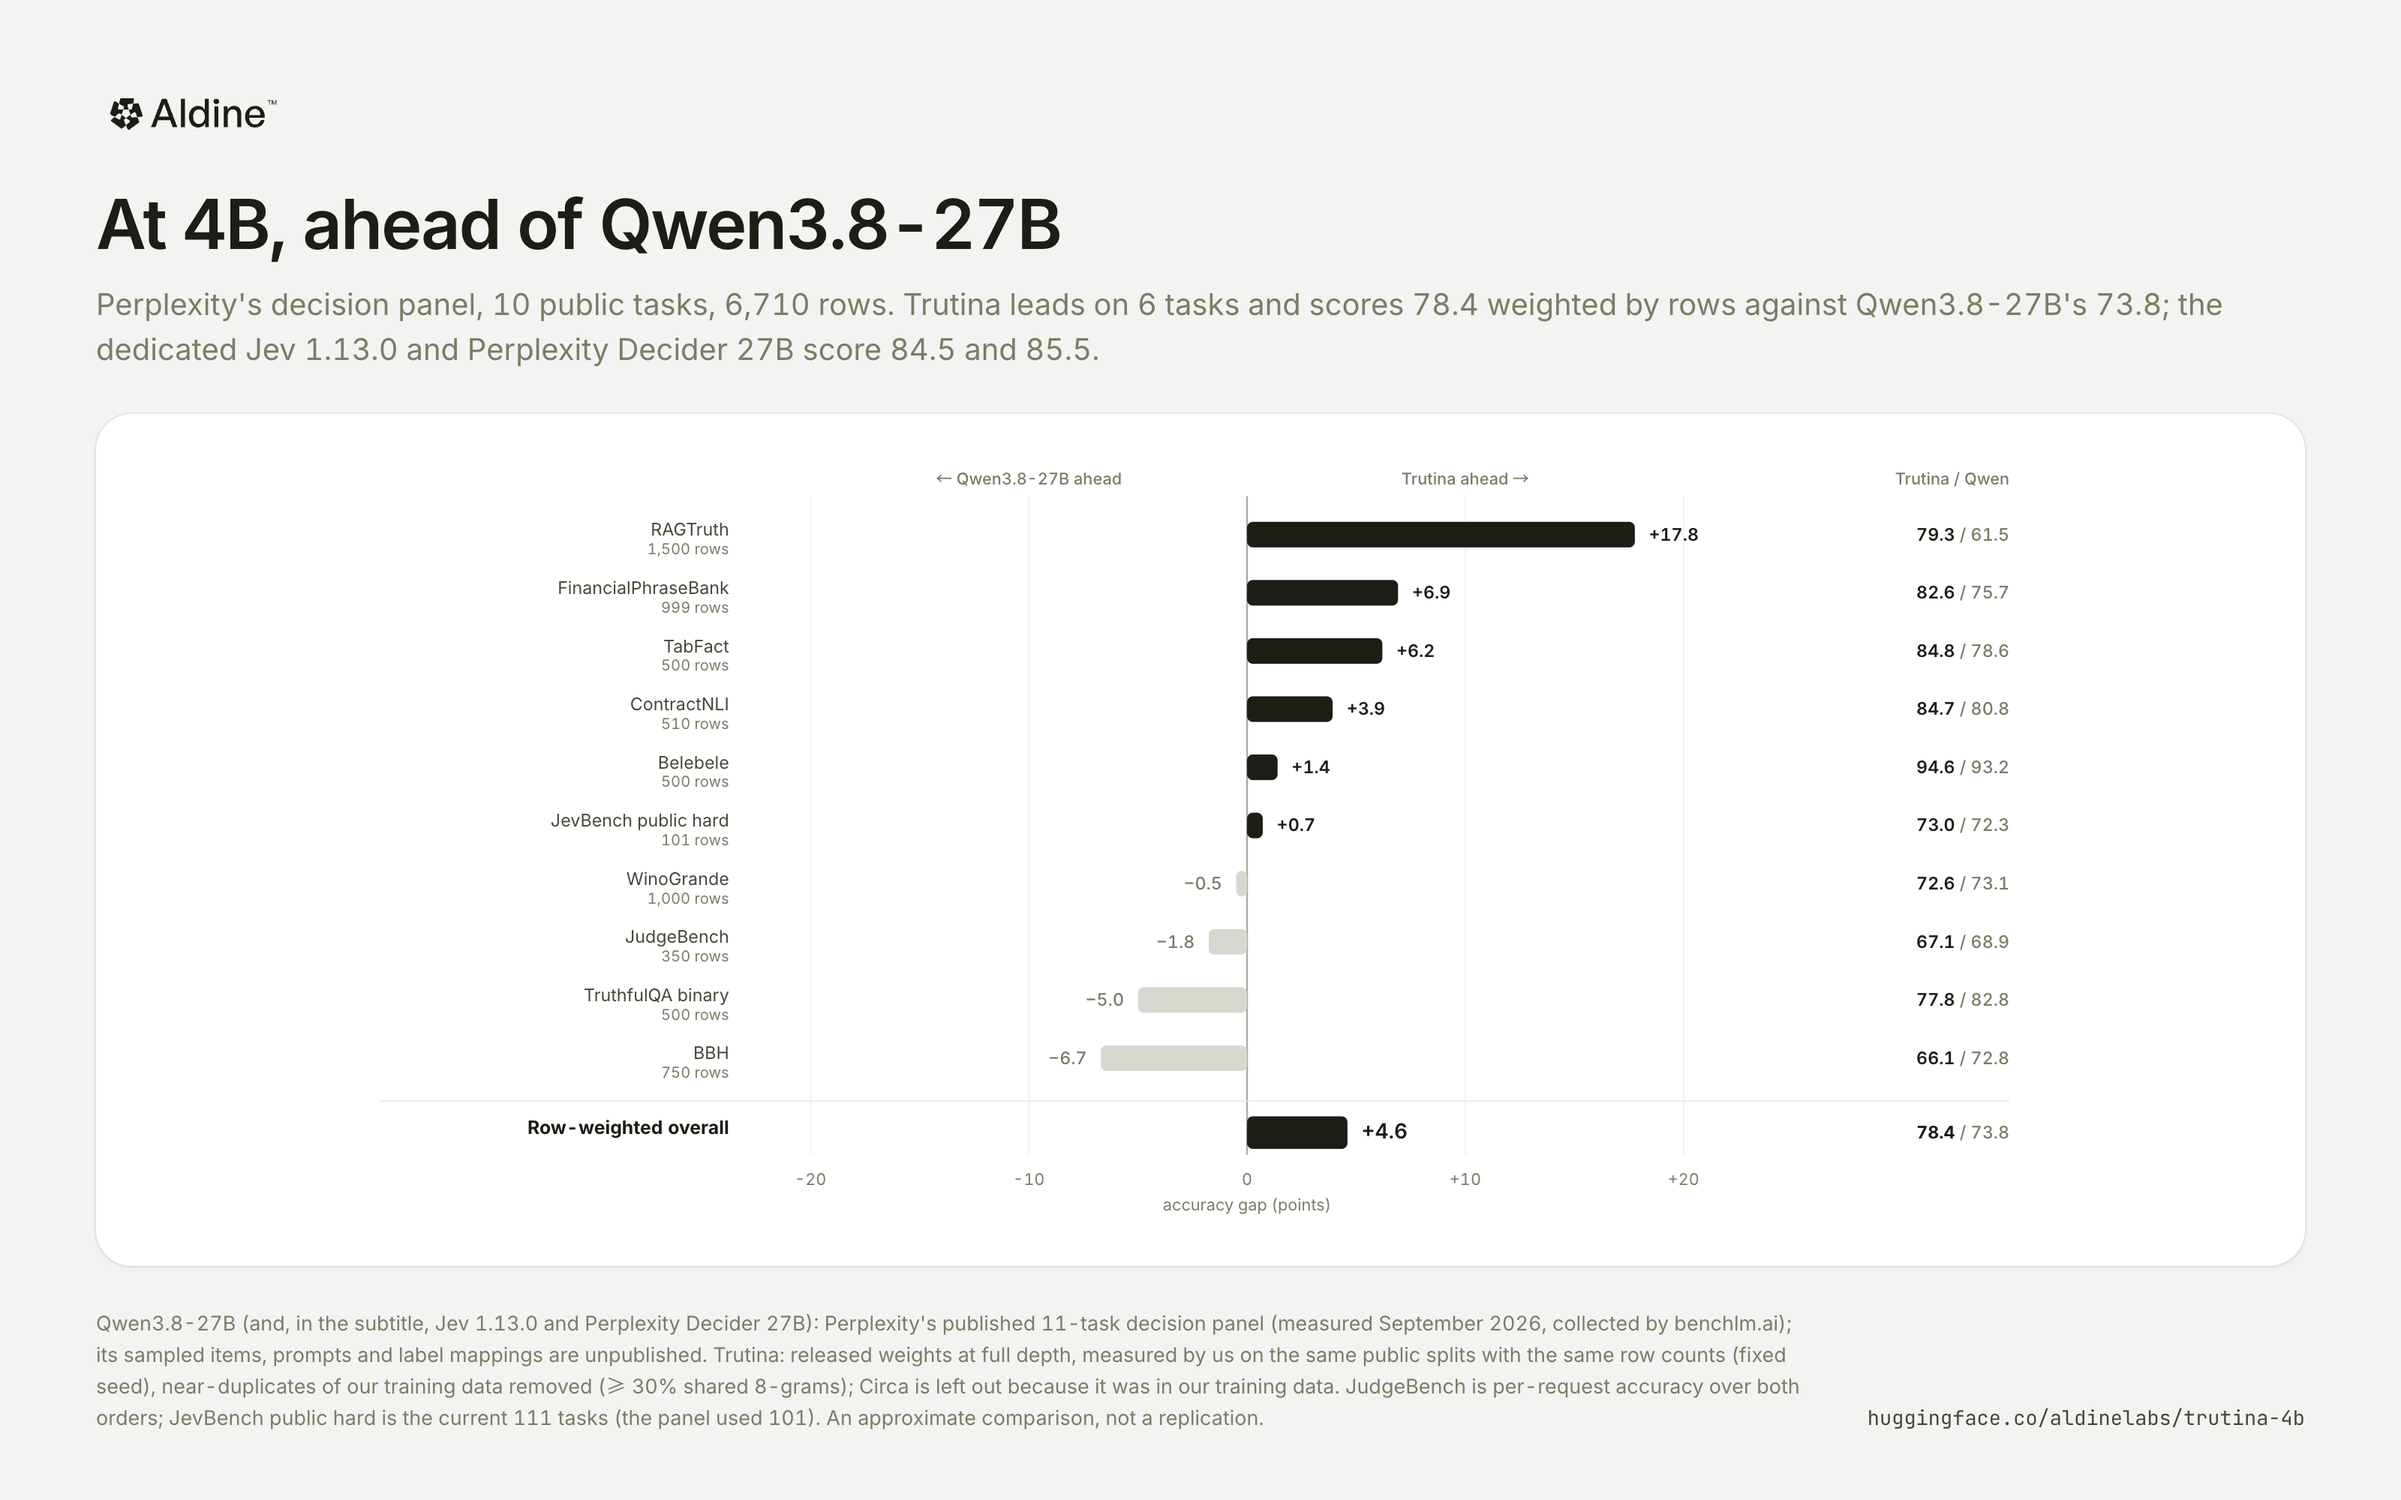
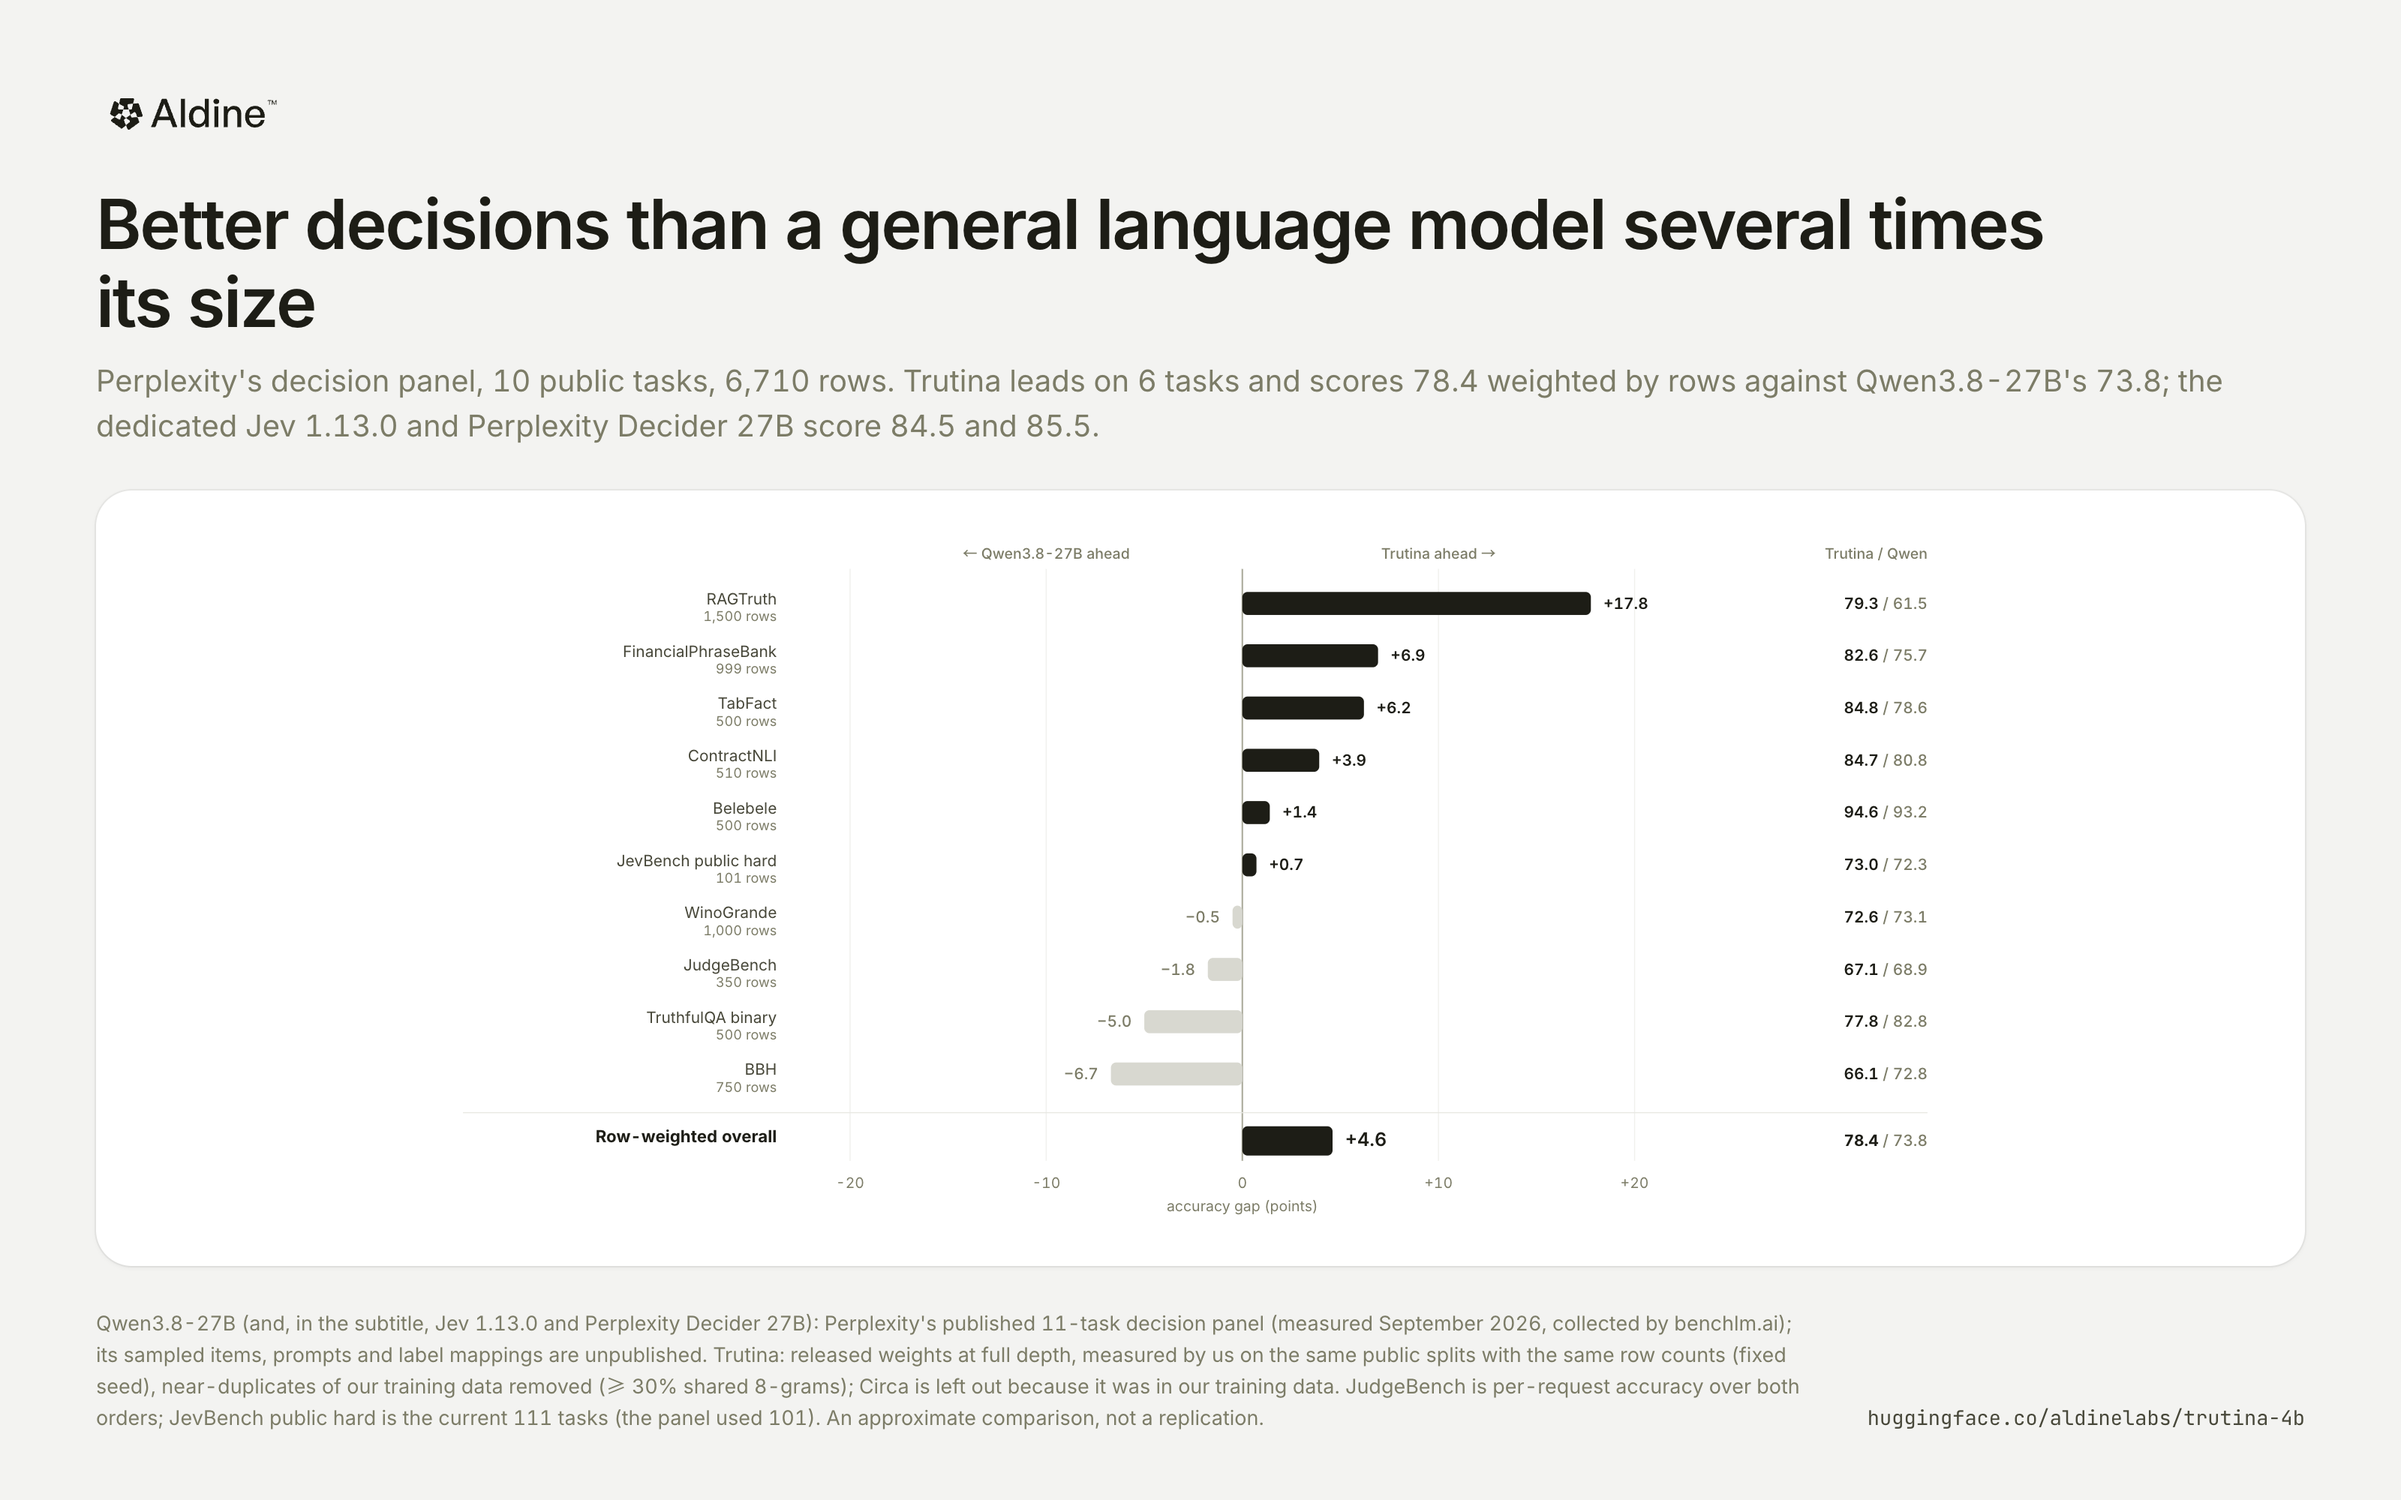
docs: panel chart title speaks of general language models several times its size

diff --git a/assets/charts/charts.html b/assets/charts/charts.html
@@ -274,12 +274,12 @@ function panel() {
   });
   const o = P.overall, wins = P.tasks.filter(t => t.trutina > t.qwen).length;
   return frame(zh ? {
-    title: "以 4B 规模胜过 Qwen3.8-27B",
+    title: "决策质量超越数倍于自身大小的通用语言模型",
     sub: `Perplexity 决策面板 10 项公开任务、${P.n.toLocaleString()} 题。Trutina 在 ${wins} 项上领先，按题数加权为 ${o.trutina}，Qwen3.8-27B 为 ${o.qwen}；专用的 Jev 1.13.0 与 Perplexity Decider 27B 分别为 ${o.jev} 与 ${o.pplx}。`,
     body: `<div class="card">${svgTag(W, H)}${g}</svg></div>`,
     src: "Qwen3.8-27B（以及副标题中 Jev 1.13.0、Perplexity Decider 27B）的数值取自 Perplexity 公布的 11 项决策面板（2026 年 9 月测得，经 benchlm.ai 汇总），其抽样题目、提示词与标签映射未公开。Trutina 为已发布权重、完整深度，由我们在同型号公开切分上按相同题数固定种子抽样测得，并已剔除与训练数据近似重复的题目（8-gram 重合 ≥ 30%）；Circa 因出现在训练数据中而未纳入。JudgeBench 为两种顺序的单题准确率，JevBench public hard 为当前版本的 111 题（面板为 101 题）。此为近似对比，并非复现。",
   } : {
-    title: "At 4B, ahead of Qwen3.8-27B",
+    title: "Better decisions than a general language model several times its size",
     sub: `Perplexity's decision panel, 10 public tasks, ${P.n.toLocaleString()} rows. Trutina leads on ${wins} tasks and scores ${o.trutina} weighted by rows against Qwen3.8-27B's ${o.qwen}; the dedicated Jev 1.13.0 and Perplexity Decider 27B score ${o.jev} and ${o.pplx}.`,
     body: `<div class="card">${svgTag(W, H)}${g}</svg></div>`,
     src: "Qwen3.8-27B (and, in the subtitle, Jev 1.13.0 and Perplexity Decider 27B): Perplexity's published 11-task decision panel (measured September 2026, collected by benchlm.ai); its sampled items, prompts and label mappings are unpublished. Trutina: released weights at full depth, measured by us on the same public splits with the same row counts (fixed seed), near-duplicates of our training data removed (≥ 30% shared 8-grams); Circa is left out because it was in our training data. JudgeBench is per-request accuracy over both orders; JevBench public hard is the current 111 tasks (the panel used 101). An approximate comparison, not a replication.",
